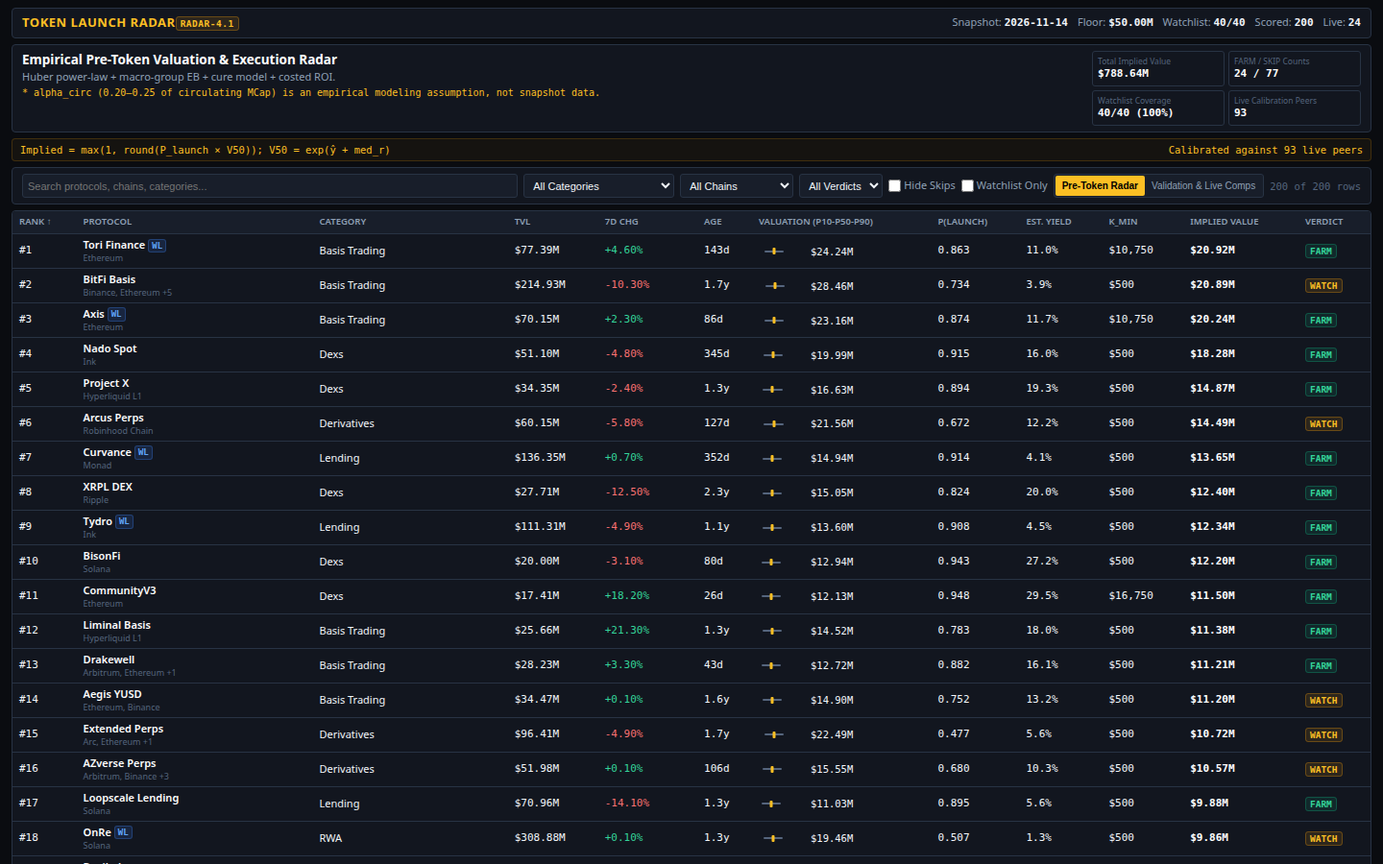
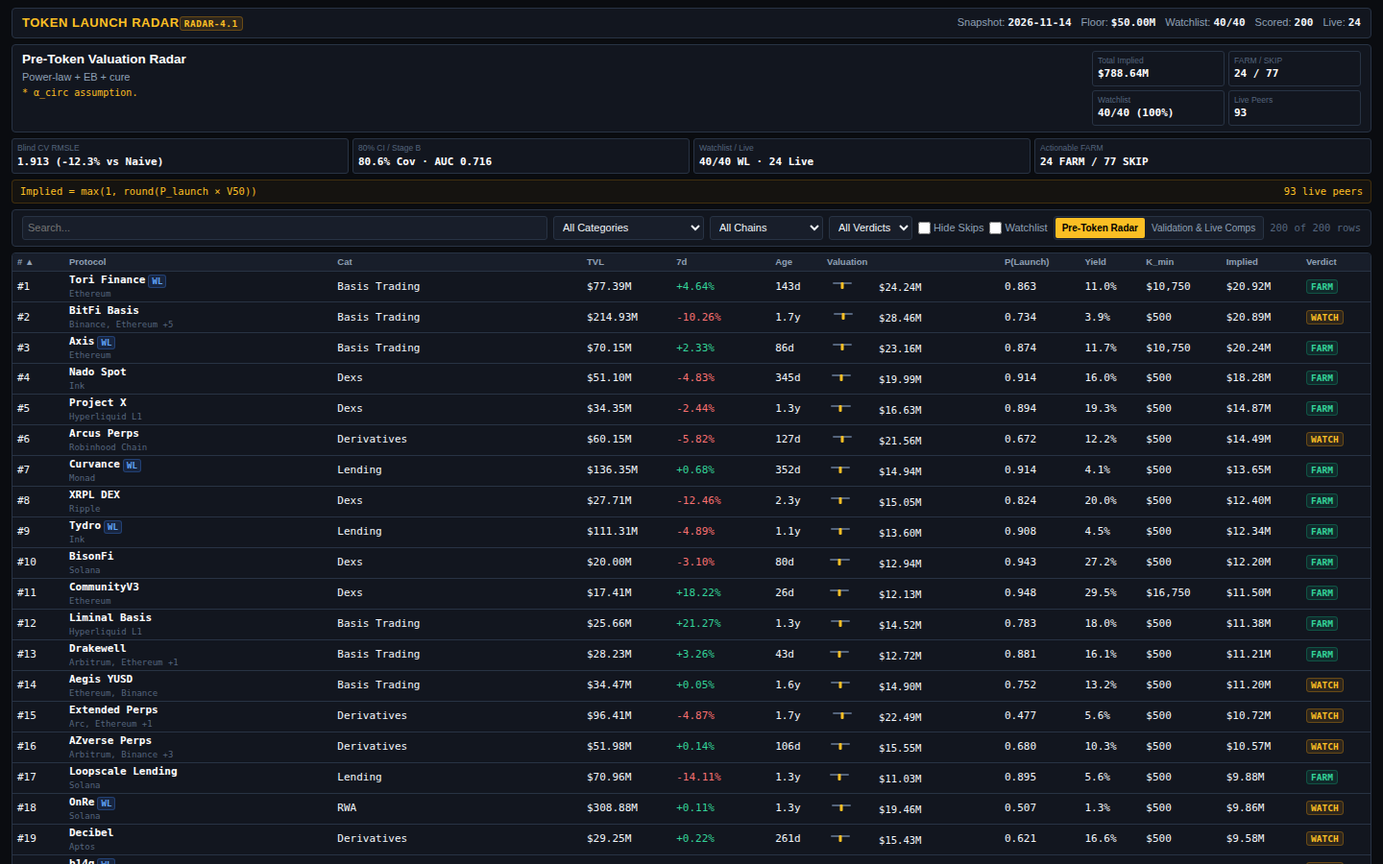
fix(radar-4.1): QC1 fixes 1, 4, 5, 7 — drawer contrast, Stage B labels, Hero KPI, val-tab reframe
- Drawer: color var(--t) + right-dock + showModal() backdrop; step text
  and comps cells legible; dialog UA border reset (border:0)
- Stage B labels corrected to model.ts (B0 Naive, B1 Cat pi_c,
  B2 +Cure F(t), B3 +D_svc Final); Net Cash EV (@$10k) with neg class;
  lastMatch = last KEPT row; all counts/labels dynamic from D
- Hero KPI strip on board: Blind CV RMSLE 1.913 (-12.3%), 80.6% Cov /
  AUC 0.716, 40/40 WL / 24 Live, 24 FARM / 77 SKIP
- Screenshot 3 reframe: tight-bounds SVG scatter (320x155) + axis
  labels/ticks, side-by-side ablation, Stage B strip + live tokens
  above the fold; pre-token filters hidden on val tab
- Restore full 'Valuation & Launch Probability' drawer header
  (was truncated to '...Launch P' by the Q2 trim pass)
- Dashboard 62,465 B (< 62,500 cap); oracle parity 0.0000;
  farm-step parity 200/200; per-step costs sum 123/123

diff --git a/dashboard/app.js b/dashboard/app.js
@@ -35,43 +35,41 @@ return t.length>600?t.slice(0,596)+"...":t.length<20?t+" Maintain position per p
 }
 window.stepText=stepText;
 function fU(n){
-if(n==null||!isFinite(n))return"n/a";
-var a=Math.abs(n);
-return a>=1e9?"$"+(n/1e9).toFixed(2)+"B":a>=1e6?"$"+(n/1e6).toFixed(2)+"M":a>=1e3?"$"+Math.round(n/1e3)+"K":"$"+Math.round(n);
+if(n==null)return"n/a";var a=Math.abs(n);
+return"$"+(a>=1e9?(n/1e9).toFixed(2)+"B":a>=1e6?(n/1e6).toFixed(2)+"M":a>=1e3?Math.round(n/1e3)+"K":Math.round(n));
 }
-function fP(n){return n==null||!isFinite(n)?"—":(n>0?"+":"")+Number(n).toFixed(2)+"%";}
-function fA(d){return d==null?"—":d>=365?(d/365).toFixed(1)+"y":Math.max(0,Math.round(d))+"d";}
-function fC(c){return!c||!c.length?"EVM":c.length<=2?c.join(", "):c.slice(0,2).join(", ")+" +"+(c.length-2);}
-function box(l,v,c){return'<div class="c-box"><div class="c-lbl">'+l+'</div><div class="c-val'+(c?' '+c:'')+'">'+v+'</div></div>';}
-function bX(cls,a){return'<div class="'+cls+'">'+a.map(function(x){return box(x[0],x[1],x[2]);}).join('')+'</div>';}
+function fP(n){return n!=null?(n>0?"+":"")+(+n).toFixed(2)+"%":"—";}
+function fA(d){return d==null?"—":d>=365?(d/365).toFixed(1)+"y":Math.round(d)+"d";}
+function fC(c){return!c||!c[0]?"EVM":c.length<=2?c.join(", "):c[0]+", "+c[1]+" +"+(c.length-2);}
+function bX(c,a){return'<div class="'+c+'">'+a.map(function(x){return'<div class="c-box"><div class="c-lbl">'+x[0]+'</div><div class="c-val '+(x[2]||'')+'">'+x[1]+'</div></div>';}).join('')+'</div>';}
 function sec(h,c){return'<div class="d-sec"><div class="s-head">'+h+'</div>'+c+'</div>';}
-function fN(n,d){return n!=null&&isFinite(n)?Number(n).toFixed(d):"—";}
-function td(v,c){return'<td class="mono'+(c?' '+c:'')+'">'+v+'</td>';}
+function fN(n,d){return n!=null?(+n).toFixed(d):"—";}
+function td(v,c){return'<td class="'+(c||'')+'">'+v+'</td>';}
 function gR(){
 var q=S.q.trim().toLowerCase(),k=S.sort,d=S.dir;
+function vl(x){return k==="growth"?x.change_7d??-9999:k==="age"?x.age_days??9999:k==="name"?x.name.toLowerCase():x[k];}
 return D.rows.filter(function(r){
 return(S.cat==="all"||r.category===S.cat)&&
-(S.ch==="all"||(r.chains&&r.chains.indexOf(S.ch)>=0))&&
+(S.ch==="all"||(r.chains&&r.chains.includes(S.ch)))&&
 (S.v==="all"||r.verdict===S.v)&&
 (!S.noSkip||r.verdict!=="skip")&&
 (!S.wl||r.is_watchlist)&&
-(!q||(r.name+" "+r.slug+" "+(r.category||"")+" "+(r.chains||[]).join(" ")).toLowerCase().indexOf(q)>=0);
+(!q||(r.name+" "+r.slug+" "+(r.category||"")+" "+(r.chains||[]).join(" ")).toLowerCase().includes(q));
 }).sort(function(a,b){
-var av=k==="growth"?a.change_7d??-9999:k==="age"?a.age_days??9999:k==="name"?a.name.toLowerCase():a[k];
-var bv=k==="growth"?b.change_7d??-9999:k==="age"?b.age_days??9999:k==="name"?b.name.toLowerCase():b[k];
+var av=vl(a),bv=vl(b);
 return av<bv?-d:av>bv?d:a.slug<b.slug?-1:1;
 });
 }
 function wH(r){
-function p(n){return Math.max(0,Math.min(100,(Math.log(Math.max(1,n))-13.1)*8.197));}
-var p10=p(r.v10_usd),p50=p(r.v50_usd),p90=p(r.v90_usd);
-return'<div class="w-wrap"><div class="w-trk"><div class="w-bar" style="left:'+p10+'%;width:'+(p90-p10)+'%"></div><div class="w-dot" style="left:'+p50+'%"></div></div><span class="w-val mono">'+fU(r.v50_usd)+'</span></div>';
+function p(n){return Math.max(0,Math.min(100,(Math.log(n)-13.1)*8.2|0));}
+var a=p(r.v10_usd),b=p(r.v50_usd),c=p(r.v90_usd);
+return'<div class="w-wrap"><div class="w-trk"><div class="w-bar" style="left:'+a+'%;width:'+(c-a)+'%"></div><div class="w-dot" style="left:'+b+'%"></div></div><span class="w-val mono">'+fU(r.v50_usd)+'</span></div>';
 }
 function rT(rows){
-var cols=[["rank","Rank"],["name","Protocol"],["category","Category"],["tvl_usd","TVL"],["growth","7d Chg"],["age","Age"],["v50_usd","Valuation (P10-90)"],["p_launch","P(Launch)"],["y_airdrop_ann","Est. Yield"],["k_min","K_min"],["implied_value_usd","Implied"],["verdict","Verdict"]];
-var ths=cols.map(function(c){return'<th><button data-sort="'+c[0]+'">'+c[1]+(S.sort===c[0]?(S.dir===1?' ↑':' ↓'):'')+'</button></th>';}).join('');
+var cols=[["rank","#"],["name","Protocol"],["category","Cat"],["tvl_usd","TVL"],["growth","7d"],["age","Age"],["v50_usd","Valuation"],["p_launch","P(Launch)"],["y_airdrop_ann","Yield"],["k_min","K_min"],["implied_value_usd","Implied"],["verdict","Verdict"]];
+var ths=cols.map(function(c){return'<th><button data-sort="'+c[0]+'">'+c[1]+(S.sort===c[0]?(S.dir===1?' ▲':' ▼'):'')+'</button></th>';}).join('');
 var trs=rows.map(function(r){
-var cls=r.change_7d==null?'':(r.change_7d>0?'pos':r.change_7d<0?'neg':'');
+var cls=r.change_7d>0?'pos':r.change_7d<0?'neg':'';
 var wl=r.is_watchlist?'<span class="badge b-wl">WL</span>':'';
 return'<tr data-slug="'+r.slug+'"'+(S.sel===r.slug?' data-selected="true"':'')+'>'+
 td('#'+r.rank)+
@@ -82,9 +80,9 @@ td(fP(r.change_7d),cls)+
 td(fA(r.age_days))+
 '<td>'+wH(r)+'</td>'+
 td(fN(r.p_launch,3))+
-td(r.y_airdrop_ann!=null?(r.y_airdrop_ann*100).toFixed(1)+'%':'—')+
-td('$'+r.k_min.toLocaleString("en-US"))+
-'<td class="mono" style="font-weight:700;color:#fff">'+fU(r.implied_value_usd)+'</td>'+
+td(r.y_airdrop_ann?fN(r.y_airdrop_ann*100,1)+'%':'—')+
+td('$'+r.k_min.toLocaleString())+
+td(fU(r.implied_value_usd))+
 '<td><span class="badge b-'+r.verdict+'">'+r.verdict+'</span></td></tr>';
 }).join('');
 return'<div class="t-wrap"><table><thead><tr>'+ths+'</tr></thead><tbody>'+trs+'</tbody></table></div>';
@@ -95,86 +93,90 @@ var r=D.rows.find(function(x){return x.slug===S.sel;});
 if(!r)return'';
 var comps=r.comps.map(function(c){
 var p=D.cp[c[0]]||{};
-return'<tr><td style="font-weight:600;color:#fff">'+(p.name||'—')+'</td><td>'+(p.category||'—')+'</td>'+
+return'<tr><td>'+(p.name||'—')+'</td><td>'+(p.category||'—')+'</td>'+
 td(fU(p.tvl_usd))+td(fU(p.mcap_usd))+
 td(fN(c[1],2)+'x')+td(fN(c[2],3))+'</tr>';
 }).join('');
-var terms=[["Intercept β₀",r.attr[0]],["ln(TVL) β₁",r.attr[1]],["ln(chains) β₅",r.attr[2]],["Macro-offset α",r.attr[3]],["Residual med_r",r.attr[4]]].map(function(t){
-var p=t[1]>=0,c=p?'pos':'neg',w=Math.min(50,Math.abs(t[1])*15);
-return'<div class="a-row"><span style="color:var(--m)">'+t[0]+'</span><div class="a-trk"><div class="a-mid"></div><div class="a-bar '+c+'" style="width:'+w+'%"></div></div><span class="mono '+c+'" style="text-align:right">'+(p?'+':'')+fN(t[1],2)+'</span></div>';
+var terms=[["β₀",r.attr[0]],["β₁ ln(TVL)",r.attr[1]],["β₅ ln(chains)",r.attr[2]],["α Macro",r.attr[3]],["Residual med_r",r.attr[4]]].map(function(t){
+var p=t[1]>=0,c=p?'pos':'neg',w=Math.min(50,Math.abs(t[1])*15|0);
+return'<div class="a-row"><span>'+t[0]+'</span><div class="a-trk"><div class="a-mid"></div><div class="a-bar '+c+'" style="width:'+w+'%"></div></div><span class="mono '+c+'" style="text-align:right">'+(p?'+':'')+fN(t[1],2)+'</span></div>';
 }).join('');
 var steps=getFarmSteps(r).map(function(s,i){
 return'<div class="f-card"><div class="f-head"><span class="f-num">STEP '+(i+1)+'</span><span style="color:var(--m)">Cost: '+s.cost+' · Time: '+s.time+'</span></div><div class="f-txt">'+s.text+'</div></div>';
 }).join('');
-var wl=r.is_watchlist?'<span class="badge b-wl">WATCHLIST</span>':'';
-return'<dialog class="drawer" open><div class="d-head"><div><div style="display:flex;align-items:center;gap:6px;margin-bottom:2px"><span class="mono" style="color:var(--x);font-size:10px">#'+r.rank+'</span><span class="badge b-'+r.verdict+'">'+r.verdict+'</span>'+wl+'</div><div class="d-title">'+r.name+'</div><div class="d-sub">'+(r.category||"DeFi")+' · '+fC(r.chains)+' · '+fA(r.age_days)+' old</div></div><button class="d-close" data-act="close">✕ Close</button></div>'+
-sec("Valuation & Launch P",bX("g4",[["P10 Floor",fU(r.v10_usd)],["P50 Base",fU(r.v50_usd)],["P90 Ceiling",fU(r.v90_usd)],["Implied",fU(r.implied_value_usd),'pos']])+'<div style="font-size:10.5px;color:var(--m);font-family:var(--fm);margin-top:4px">P(Launch) = '+fN(r.p_launch,4)+' · Implied = max(1, round(P_launch × V50))</div>')+
+var wl=r.is_watchlist?'<span class="badge b-wl">WL</span>':'';
+return'<dialog class="drawer"><div class="d-head"><div><div style="display:flex;align-items:center;gap:6px;margin-bottom:2px"><span class="mono" style="color:var(--x);font-size:10px">#'+r.rank+'</span><span class="badge b-'+r.verdict+'">'+r.verdict+'</span>'+wl+'</div><div class="d-title">'+r.name+'</div><div class="d-sub">'+(r.category||"DeFi")+' · '+fC(r.chains)+' · '+fA(r.age_days)+'</div></div><button class="d-close" data-act="close">✕ Close</button></div>'+
+sec("Valuation & Launch Probability",bX("g4",[["P10 Floor",fU(r.v10_usd)],["P50 Base",fU(r.v50_usd)],["P90 Ceiling",fU(r.v90_usd)],["Implied",fU(r.implied_value_usd),'pos']])+'<div style="font-size:10px;color:var(--m);margin-top:3px">P(Launch) = '+fN(r.p_launch,4)+'</div>')+
 sec("Valuation Attribution",terms)+
-sec("Costed Farm P&L",bX("g4",[["Chain",r.exec_chain],["Hard Cost","$"+fN(r.c_hard,2)],["Time",r.total_min+" min"],["Gross Hold",r.gross_hold!=null?(r.gross_hold*100).toFixed(2)+'%':'—'],["Est. Yield",r.y_airdrop_ann!=null?(r.y_airdrop_ann*100).toFixed(1)+'%':'—'],["Net Cash EV","$"+fN(r.net_cash_ev_10k,2),'pos'],["K_min","$"+r.k_min.toLocaleString("en-US")],["α_circ",r.alpha_circ*100+'%']]))+
+sec("Costed Farm P&L",bX("g4",[["Chain",r.exec_chain],["Hard Cost","$"+fN(r.c_hard,2)],["Time",r.total_min+"m"],["Gross Hold",r.gross_hold?fN(r.gross_hold*100,2)+'%':'—'],["Est. Yield",r.y_airdrop_ann?fN(r.y_airdrop_ann*100,1)+'%':'—'],["Net Cash EV (@$10k)",(r.net_cash_ev_10k<0?"-$":"$")+Math.abs(r.net_cash_ev_10k).toFixed(2),r.net_cash_ev_10k>=0?"pos":"neg"],["K_min","$"+r.k_min.toLocaleString()],["α_circ",r.alpha_circ*100+'%']]))+
 sec("3 Nearest Comps",'<table><thead><tr><th>Peer</th><th>Cat</th><th>TVL</th><th>MCap</th><th>MCap/TVL</th><th>Dist</th></tr></thead><tbody>'+comps+'</tbody></table>')+
 sec((r.verdict==="skip"?"Disqualification Log":"Farm Playbook"),'<div class="f-tl">'+steps+'</div>')+'</dialog>';
 }
 function rV(){
 var v=D.validation,pts=v.oof_scatter||[];
-function sx(x){return 24+(x-12)*19.428;}
-function sy(y){return 196-(y-12)*12.285;}
-var circs=pts.map(function(p){return'<circle cx="'+sx(p.actual_ln)+'" cy="'+sy(p.pred_ln)+'" r="2.5" fill="#f59e0b" fill-opacity="0.6"/>';}).join('');
-var diag='<line x1="'+sx(12)+'" y1="'+sy(12)+'" x2="'+sx(26)+'" y2="'+sy(26)+'" stroke="#55657d" stroke-dasharray="2,2"/>';
-var axes='<line x1="24" y1="196" x2="296" y2="196" stroke="#283344"/><line x1="24" y1="24" x2="24" y2="196" stroke="#283344"/>';
-var svgStr='<svg class="sc-svg" viewBox="0 0 320 220">'+diag+axes+circs+'</svg>';
+var lo=99,hi=0;pts.forEach(function(p){lo=Math.min(lo,p.actual_ln,p.pred_ln);hi=Math.max(hi,p.actual_ln,p.pred_ln);});lo-=0.5;hi+=0.5;
+var mid=(lo+hi)/2;
+function sx(x){return 30+(x-lo)/(hi-lo)*278|0;}
+function sy(y){return 128-(y-lo)/(hi-lo)*118|0;}
+var tk='<g font-size="7.5" fill="#55657d">';
+[lo,mid,hi].forEach(function(x){var s=x.toFixed(1);tk+='<text x="'+sx(x)+'" y="139" text-anchor="middle">'+s+'</text><text x="26" y="'+(sy(x)+3)+'" text-anchor="end">'+s+'</text>';});
+tk+='</g><g font-size="8" fill="#8fa0b5" text-anchor="middle"><text x="169" y="150">Actual ln(MCap)</text><text x="-69" y="9" transform="rotate(-90)">OOF Pred ln(MCap)</text></g>';
+var circs=pts.map(function(p){return'<circle cx="'+sx(p.actual_ln)+'" cy="'+sy(p.pred_ln)+'" r="2" fill="#f59e0b99"/>';}).join('');
+var diag='<line x1="'+sx(lo)+'" y1="'+sy(lo)+'" x2="'+sx(hi)+'" y2="'+sy(hi)+'" stroke="#55657d" stroke-dasharray="2,2"/>';
+var axes='<path d="M30 10v118h278" stroke="#283344" fill="none"/>';
+var svgStr='<svg class="sc-svg" viewBox="0 0 320 155">'+diag+axes+tk+circs+'</svg>';
 function tbl(t){
-return'<table><thead><tr><th>Model</th><th>RMSLE</th><th>MAE_log</th><th>Spearman</th><th>NDCG@20</th><th>ΔRMSLE</th><th>Kept</th></tr></thead><tbody>'+
+return'<table><thead><tr><th>Model</th><th>RMSLE</th><th>MAE</th><th>Spearman</th><th>ΔRMSLE</th><th>Kept</th></tr></thead><tbody>'+
 (t||[]).map(function(r){
-return'<tr><td class="mono" style="font-weight:600;color:#fff">'+r.model+'</td>'+
-[r.rmsle,r.mae_log,r.spearman_mean_fold,r.ndcg20,r.delta].map(function(x){return td(fN(x,4));}).join('')+
-'<td class="mono" style="color:'+(r.kept?'var(--gt)':'var(--m)')+'">'+(r.kept?'YES':'—')+'</td></tr>';
+return'<tr>'+td(r.model)+
+[r.rmsle,r.mae_log,r.spearman_mean_fold,r.delta].map(function(x){return td(fN(x,4));}).join('')+
+td(r.kept?'YES':'—',r.kept?'pos':'')+'</tr>';
 }).join('')+'</tbody></table>';
 }
 var liveRows=D.live.map(function(l){
-var r=l.tvl_usd>0?(l.mcap_usd/l.tvl_usd).toFixed(2)+'x':'—';
-var cls=l.change_7d>0?'pos':l.change_7d<0?'neg':'';
-return'<tr><td style="font-weight:600;color:#fff">'+l.name+'</td><td>'+(l.category||"DeFi")+'</td><td>'+fC(l.chains)+'</td>'+td(fU(l.tvl_usd))+td(fU(l.mcap_usd))+td(r)+td(fP(l.change_7d),cls)+'</tr>';
+var r=l.tvl_usd>0?(l.mcap_usd/l.tvl_usd).toFixed(2)+'x':'—',c=l.change_7d>0?'pos':l.change_7d<0?'neg':'';
+return'<tr><td>'+l.name+'</td><td>'+(l.category||"DeFi")+'</td><td>'+fC(l.chains)+'</td>'+td(fU(l.tvl_usd))+td(fU(l.mcap_usd))+td(r)+td(fP(l.change_7d),c)+'</tr>';
 }).join('');
-var lastMatch=v.stage_a.match.table[v.stage_a.match.table.length-1]||{};
-var ffBeta=v.stage_a.final_fit.beta||[],ffAlpha=v.stage_a.final_fit.alpha||{};
+var a=v.stage_a,ff=a.final_fit,al=ff.alpha||{},fb=ff.beta||[],lm=a.match.table.filter(function(r){return r.kept;}).pop()||{};
+var freeTerm=(a.match.kept_free||[]).filter(function(x){return x!=="x1";}).join(",")||"—";
+var sb=v.stage_b,b=sb.cv;function ab(x){return fN(x.auc,3)+"/"+fN(x.brier,3);}
 return'<div class="v-pan"><div class="g2">'+
-sec("OOF CV Scatter",'<div class="sc-box">'+svgStr+'</div><div style="text-align:center;font-size:10.5px;color:var(--m);margin-top:4px;font-family:var(--fm)">Final fit RMSLE: '+fN(lastMatch.rmsle,4)+' · Coverage: '+fN(v.stage_a.match.conformal.coverage_pct,1)+'%</div>')+
-sec("Fit Parameters",bX("g2",[["Huber λ/m_shr",v.stage_a.final_fit.lambda+" / "+v.stage_a.final_fit.m_shr],["β₀",fN(ffBeta[0],4)],["β₁ ln(TVL)",fN(ffBeta[1],4)],["β₅ (x5)",fN(ffBeta[2],4)],["Trading/Credit α",fN(ffAlpha.Trading,3)+" / "+fN(ffAlpha.Credit,3)],["Vaults/Infra α",fN(ffAlpha.Vaults,3)+" / "+fN(ffAlpha.Infra,3)],["Conformal med_r",fN(v.stage_a.match.conformal.med_r,4)],["LOO Coverage",fN(v.stage_a.match.conformal.coverage_pct,1)+'%']]))+'</div>'+
-sec("Ablation: L_match",tbl(v.stage_a.match.table))+
-sec("Ablation: L_all",tbl(v.stage_a.all.table))+
-sec("Stage B Proof",bX("g4",[["B0 AUC/Brier",fN(v.stage_b.cv.b0.auc,3)+"/"+fN(v.stage_b.cv.b0.brier,3)],["B1 AUC/Brier",fN(v.stage_b.cv.b1.auc,3)+"/"+fN(v.stage_b.cv.b1.brier,3)],["B2 AUC/Brier",fN(v.stage_b.cv.b2.auc,3)+"/"+fN(v.stage_b.cv.b2.brier,3)],["Final AUC/Brier/BSS",fN(v.stage_b.cv.final.auc,3)+"/"+fN(v.stage_b.cv.final.brier,3)+"/"+fN(v.stage_b.cv.final.bss,3)],["Cure",v.stage_b.cure.w0+"/"+v.stage_b.cure.tau+"d/m="+v.stage_b.cure.m],["D_service",fN(v.stage_b.d_service,4)],["Target/p0",v.stage_b.target+" ("+fN(v.stage_b.p0,3)+")"],["P_floor/Q75",fN(v.verdicts.p_floor,3)+" / "+fU(v.verdicts.q75_implied)]]))+
-sec("24 Isolated Live Tokens (Peer Reference)",'<table><thead><tr><th>Protocol</th><th>Cat</th><th>Chains</th><th>TVL</th><th>MCap</th><th>MCap/TVL</th><th>7d Chg</th></tr></thead><tbody>'+liveRows+'</tbody></table>')+'</div>';
+sec("OOF CV Scatter (n="+a.match.n+")",'<div class="sc-box">'+svgStr+'</div><div style="text-align:center;font-size:10px;color:var(--m);margin-top:2px">RMSLE: '+fN(lm.rmsle,4)+' · Cov: '+fN(a.match.conformal.coverage_pct,1)+'%</div>')+
+sec("Fit Parameters",bX("g2",[["Huber λ/m",ff.lambda+"/"+ff.m_shr],["β₀",fN(fb[0],4)],["β₁ ln(TVL)",fN(fb[1],4)],["Beta Free ("+freeTerm+")",fN(fb[2],4)],["Trade/Credit α",fN(al.Trading,3)+"/"+fN(al.Credit,3)],["Vault/Infra α",fN(al.Vaults,3)+"/"+fN(al.Infra,3)],["med_r",fN(a.match.conformal.med_r,4)],["Coverage",fN(a.match.conformal.coverage_pct,1)+'%']]))+'</div>'+
+'<div class="g2">'+
+sec("Ablation: L_match (n="+a.match.n+")",tbl(a.match.table))+
+sec("Ablation: L_all (n="+a.all.n+")",tbl(a.all.table))+
+'</div>'+
+sec("Stage B Proof",bX("g4",[["B0 Naive",ab(b.b0)],["B1 Cat π_c",ab(b.b1)],["B2 +Cure F(t)",ab(b.b2)],["B3 +D_svc (Final)",ab(b.final)+"/"+fN(b.final.bss,3)],["Cure",sb.cure.w0+"/"+sb.cure.tau+"d/m="+sb.cure.m],["D_service",fN(sb.d_service,4)],["Target/p0",sb.target+" ("+fN(sb.p0,3)+")"],["P_floor/Q75",fN(v.verdicts.p_floor,3)+" / "+fU(v.verdicts.q75_implied)]]))+
+sec(D.live.length+" Isolated Live Tokens (Peer Reference · Not Ranked on Pre-Token Board)",'<table><thead><tr><th>Protocol</th><th>Cat</th><th>Chains</th><th>TVL</th><th>MCap</th><th>MCap/TVL</th><th>7d</th></tr></thead><tbody>'+liveRows+'</tbody></table>')+'</div>';
 }
 function uX(){
-var sorted=gR();
-var cnt=document.querySelector(".cnt");
+var sorted=gR(),cnt=document.querySelector(".cnt"),c=document.querySelector(".ctrls"),dyn=document.getElementById("dyn");
 if(cnt)cnt.textContent=sorted.length+" of "+D.rows.length+" rows";
-var dyn=document.getElementById("dyn");
+if(c)c.classList.toggle("v-mode",S.tab==="val");
 if(!dyn)return;
 dyn.innerHTML=S.tab==="radar"?(rT(sorted)+(S.sel?rD():'')):rV();
+if(S.sel){var d=document.querySelector('dialog.drawer');if(d&&!d.open){try{d.showModal();}catch(e){d.setAttribute('open','');}}}
 }
 function init(){
 var cats=[],chs=[],farmCount=0,skipCount=0,wlCount=0,totImplied=0;
 D.rows.forEach(function(r){
-if(r.category&&cats.indexOf(r.category)<0)cats.push(r.category);
-if(r.chains)r.chains.forEach(function(c){if(chs.indexOf(c)<0)chs.push(c);});
-if(r.verdict==="farm")farmCount++;else if(r.verdict==="skip")skipCount++;
-if(r.is_watchlist)wlCount++;
+r.category&&!cats.includes(r.category)&&cats.push(r.category);
+(r.chains||[]).forEach(function(c){!chs.includes(c)&&chs.push(c);});
+farmCount+=r.verdict==="farm";
+skipCount+=r.verdict==="skip";
+wlCount+=r.is_watchlist?1:0;
 totImplied+=r.implied_value_usd;
 });
 cats.sort();chs.sort();
-var cpCount=D.cp.length;
-var mkOpt=function(a){return a.map(function(c){return'<option value="'+c+'">'+c+'</option>';}).join('');};
+var mkOpt=function(a){return a.map(function(c){return'<option>'+c+'</option>';}).join('');};
+var v=D.validation,mt=v.stage_a.match.table,lm=mt.filter(function(r){return r.kept;}).pop()||mt[mt.length-1],d=((lm.rmsle-mt[0].rmsle)/mt[0].rmsle*100).toFixed(1);
 var app=document.getElementById("app");
-app.innerHTML='<div class="shell"><div class="top-bar"><div class="brand"><span>Token Launch Radar</span><span class="badge b-m">'+D.model_version+'</span></div><div class="stats-strip"><span>Snapshot: <b>'+D.as_of+'</b></span><span>Floor: <b>'+fU(D.floor_usd)+'</b></span><span>Watchlist: <b>'+wlCount+'/'+wlCount+'</b></span><span>Scored: <b>'+D.rows.length+'</b></span><span>Live: <b>'+D.live.length+'</b></span></div></div><section class="hero"><div><h1>Pre-Token Valuation Radar</h1><p>Power-law + EB + cure + costed ROI.</p><div class="hero-note">* alpha_circ (0.20–0.25) empirical assumption.</div></div>'+bX("h-grid",[["Total Implied",fU(totImplied)],["FARM / SKIP",farmCount+" / "+skipCount],["Watchlist","40/40 (100%)"],["Live Peers",String(cpCount)]])+'</section><div class="f-strip"><span>Implied = max(1, round(P_launch × V50)); V50 = exp(ŷ + med_r)</span><span>'+cpCount+' live peers</span></div><div class="ctrls"><input class="inp" id="qInp" placeholder="Search protocols, chains..." value="'+S.q+'"><select class="sel" id="catSel"><option value="all">All Categories</option>'+mkOpt(cats)+'</select><select class="sel" id="chSel"><option value="all">All Chains</option>'+mkOpt(chs)+'</select><select class="sel" id="vSel"><option value="all">All Verdicts</option><option value="farm">FARM</option><option value="watch">WATCH</option><option value="skip">SKIP</option></select><label class="chk"><input type="checkbox" id="nsChk">Hide Skips</label><label class="chk"><input type="checkbox" id="wlChk">Watchlist Only</label><div class="t-grp"><button class="t-btn" data-tab="radar" aria-selected="true">Pre-Token Radar</button><button class="t-btn" data-tab="val" aria-selected="false">Validation & Live Comps</button></div><span class="cnt">'+D.rows.length+' of '+D.rows.length+' rows</span></div><div id="dyn"></div></div>';
+app.innerHTML='<div class="shell"><div class="top-bar"><div class="brand"><span>Token Launch Radar</span><span class="badge b-m">'+D.model_version+'</span></div><div class="stats-strip"><span>Snapshot: <b>'+D.as_of+'</b></span><span>Floor: <b>'+fU(D.floor_usd)+'</b></span><span>Watchlist: <b>'+wlCount+'/'+D.watchlist_size+'</b></span><span>Scored: <b>'+D.rows.length+'</b></span><span>Live: <b>'+D.live.length+'</b></span></div></div><section class="hero"><div><h1>Pre-Token Valuation Radar</h1><p>Power-law + EB + cure</p><div class="hero-note">* α_circ assumption.</div></div>'+bX("h-grid",[["Total Implied",fU(totImplied)],["FARM / SKIP",farmCount+" / "+skipCount],["Watchlist",wlCount+"/"+D.watchlist_size+" ("+Math.round(wlCount/D.watchlist_size*100)+"%)"],["Live Peers",D.cp.length]])+'</section>'+bX("g4 hero-kpi",[["Blind CV RMSLE",fN(lm.rmsle,3)+" ("+(d>0?"+":"")+d+"% vs Naive)"],["80% CI / Stage B",fN(v.stage_a.match.conformal.coverage_pct,1)+"% Cov · AUC "+fN(v.stage_b.cv.final.auc,3)],["Watchlist / Live",wlCount+"/"+D.watchlist_size+" WL · "+D.live.length+" Live"],["Actionable FARM",farmCount+" FARM / "+skipCount+" SKIP"]])+'<div class="f-strip"><span>Implied = max(1, round(P_launch × V50))</span><span>'+D.cp.length+' live peers</span></div><div class="ctrls"><input class="inp" id="qInp" placeholder="Search..." value="'+S.q+'"><select class="sel" id="catSel"><option value="all">All Categories</option>'+mkOpt(cats)+'</select><select class="sel" id="chSel"><option value="all">All Chains</option>'+mkOpt(chs)+'</select><select class="sel" id="vSel"><option value="all">All Verdicts</option><option value="farm">FARM</option><option value="watch">WATCH</option><option value="skip">SKIP</option></select><label class="chk"><input type="checkbox" id="nsChk">Hide Skips</label><label class="chk"><input type="checkbox" id="wlChk">Watchlist</label><div class="t-grp"><button class="t-btn" data-tab="radar" aria-selected="true">Pre-Token Radar</button><button class="t-btn" data-tab="val" aria-selected="false">Validation & Live Comps</button></div><span class="cnt">'+D.rows.length+' of '+D.rows.length+' rows</span></div><div id="dyn"></div></div>';
 app.addEventListener("input",function(e){if(e.target.id==="qInp"){S.q=e.target.value;uX();}});
 app.addEventListener("change",function(e){
-var id=e.target.id;
-if(id==="catSel")S.cat=e.target.value;
-else if(id==="chSel")S.ch=e.target.value;
-else if(id==="vSel")S.v=e.target.value;
-else if(id==="nsChk")S.noSkip=e.target.checked;
-else if(id==="wlChk")S.wl=e.target.checked;
+var t=e.target,i=t.id,v=t.value,c=t.checked;
+if(i==="catSel")S.cat=v;else if(i==="chSel")S.ch=v;else if(i==="vSel")S.v=v;else if(i==="nsChk")S.noSkip=c;else if(i==="wlChk")S.wl=c;
 uX();
 });
 app.addEventListener("click",function(e){
@@ -182,11 +184,11 @@ var t=e.target,btn=t.closest("button");
 if(btn){
 var d=btn.dataset;
 if(d.sort){if(S.sort===d.sort)S.dir=-S.dir;else{S.sort=d.sort;S.dir=d.sort==="name"||d.sort==="rank"?1:-1;}uX();return;}
-if(d.tab){S.tab=d.tab;S.sel=null;app.querySelectorAll(".t-btn").forEach(function(b){b.setAttribute("aria-selected",b.dataset.tab===S.tab?"true":"false");});uX();return;}
+if(d.tab){S.tab=d.tab;S.sel=null;app.querySelectorAll(".t-btn").forEach(function(b){b.setAttribute("aria-selected",b.dataset.tab===S.tab);});uX();return;}
 if(d.act==="close"){S.sel=null;uX();return;}
 }
 var tr=t.closest("tbody tr[data-slug]");
-if(tr&&S.tab==="radar"){var s=tr.getAttribute("data-slug");S.sel=S.sel===s?null:s;uX();return;}
+if(tr&&S.tab==="radar"){var s=tr.dataset.slug;S.sel=S.sel===s?null:s;uX();return;}
 if(t.classList.contains("drawer")){S.sel=null;uX();}
 });
 window.addEventListener("keydown",function(e){if(e.key==="Escape"&&S.sel){S.sel=null;uX();}});

diff --git a/dashboard/app.css b/dashboard/app.css
@@ -1,1 +1,1 @@
-:root{--b:#0a0c10;--p:#12161f;--s:#181e2a;--h:#222a3a;--d:#283344;--t:#f1f5f9;--m:#8fa0b5;--x:#55657d;--at:#fbbf24;--gt:#34d399;--rt:#f87171;--fm:ui-monospace,monospace}*{box-sizing:border-box;margin:0;padding:0}body{background:var(--b);color:var(--t);font:12px/1.35 system-ui,sans-serif}.mono,.badge,.stats-strip b,.hero-note,.f-strip,.cnt,.w-val,.c-val,.f-head{font-family:var(--fm)}.mono{font-variant-numeric:tabular-nums}.shell{max-width:1440px;margin:0 auto;padding:8px 12px 32px}.top-bar,.ctrls,.hero,.t-wrap,.drawer,.c-box,.f-card,.sc-svg,.a-trk{background:var(--p)}.inp,.sel,.t-grp,.d-close,.d-sec,thead{background:var(--s)}.top-bar,.ctrls,.hero,.t-wrap,.inp,.sel,.t-grp,.d-close,.d-sec,.c-box,.f-card,.sc-svg{border:1px solid var(--d)}.top-bar,.ctrls,.hero,.t-wrap,.f-strip{border-radius:4px;margin-bottom:6px}.badge,.inp,.sel,.t-grp,.d-close,.d-sec,.c-box,.f-card,.sc-svg,.skip-link:focus{border-radius:3px}.p-cell,.top-bar,.ctrls,.stats-strip,.f-strip,.chk,.w-wrap,.w-trk,.drawer,.d-head,.a-trk,.f-tl,.v-pan,.f-head,.sc-box{display:flex}.hero,.h-grid,.g2,.g4,.a-row{display:grid}.top-bar,.ctrls{padding:6px 10px;flex-wrap:wrap;align-items:center;gap:6px}.top-bar{justify-content:space-between;gap:8px}.brand{font-weight:700;font-size:13px;letter-spacing:.04em;text-transform:uppercase;color:var(--at)}.badge{padding:1px 4px;font-size:9.5px;font-weight:600;text-transform:uppercase}.b-m,.b-watch,.b-farm,.b-skip,.b-wl{border:1px solid}.b-m,.b-watch{background:#f59e0b1f;color:var(--at);border-color:#f59e0b4d}.b-farm{background:#10b9811f;color:var(--gt);border-color:#10b9814d}.b-skip{background:#ef44441f;color:var(--rt);border-color:#ef44444d}.b-wl{background:#3b82f626;color:#60a5fa;border-color:#3b82f64d;font-size:9px;padding:0 3px;margin-left:3px}.stats-strip{flex-wrap:wrap;gap:10px;font-size:11px;color:var(--m)}.stats-strip b{color:var(--t)}.hero{padding:6px 10px;grid-template-columns:1fr 280px;gap:8px}.hero h1{font-size:13.5px;color:#fff;margin-bottom:2px}.hero p{color:var(--m);font-size:11px}.hero-note{color:var(--at);font-size:10px;margin-top:2px}.h-grid,.g2{grid-template-columns:1fr 1fr;gap:4px}.g4{grid-template-columns:repeat(4,1fr);gap:4px}.f-strip{justify-content:space-between;padding:4px 8px;background:#f59e0b0d;border:1px solid #f59e0b33;font-size:10.5px;color:var(--at);overflow-x:auto;white-space:nowrap}.inp,.sel{height:25px;padding:0 5px;color:var(--t);font-size:11px;outline:none}.inp{min-width:130px;flex:1}.t-grp{padding:1px}.t-btn{height:21px;padding:0 7px;border:0;background:transparent;color:var(--m);border-radius:2px;font-size:10px;font-weight:500;cursor:pointer}.t-btn[aria-selected="true"]{background:var(--at);color:#000;font-weight:700}.chk{align-items:center;gap:3px;font-size:11px;color:var(--m);cursor:pointer}.cnt{margin-left:auto;font-size:10.5px;color:var(--x)}.t-wrap{overflow-x:auto;margin-bottom:8px}table{width:100%;border-collapse:collapse;font-size:11px;text-align:left}thead{border-bottom:1px solid var(--d);position:sticky;top:0;z-index:2}th{padding:5px 7px;font-weight:600;font-size:9.5px;text-transform:uppercase;color:var(--m);white-space:nowrap}th button{border:0;background:transparent;color:inherit;font:inherit;text-transform:inherit;cursor:pointer}th button:hover{color:#fff}tbody tr{border-bottom:1px solid var(--d);cursor:pointer}tbody tr:hover{background:var(--h)}tbody tr[data-selected="true"]{background:#f59e0b14;outline:1px solid #f59e0b4d}td{padding:4px 7px;vertical-align:middle;white-space:nowrap}.p-cell{flex-direction:column}.p-name{font-weight:600;color:#fff;display:inline-flex;align-items:center}.p-sub{font-size:9px;color:var(--x)}.w-wrap{align-items:center;gap:4px;min-width:115px}.w-trk{position:relative;width:50px;height:9px;align-items:center}.w-bar{position:absolute;height:2px;background:var(--x);border-radius:1px}.w-dot{position:absolute;width:3px;height:7px;background:var(--at);border-radius:1px;transform:translateX(-50%)}.w-val{font-size:10.5px;min-width:48px}.pos{color:var(--gt)}.neg{color:var(--rt)}.drawer{position:fixed;top:0;right:0;bottom:0;width:min(560px,96vw);border-left:1px solid var(--d);box-shadow:-6px 0 20px #000c;padding:12px;overflow-y:auto;z-index:50;flex-direction:column;gap:8px}.drawer::backdrop{background:#0009;backdrop-filter:blur(2px)}.d-head{justify-content:space-between;align-items:flex-start;border-bottom:1px solid var(--d);padding-bottom:6px}.d-close{color:var(--m);padding:2px 5px;font-size:9.5px;cursor:pointer}.d-title{font-size:14px;font-weight:700;color:#fff}.d-sub{font-size:10px;color:var(--x);margin-top:1px}.s-head{font-size:9.5px;font-weight:700;text-transform:uppercase;color:var(--at);margin-bottom:4px}.d-sec{padding:6px 8px}.c-box{padding:4px 5px}.c-lbl{font-size:8.5px;color:var(--x);margin-bottom:1px}.c-val{font-size:11px;font-weight:700;color:#fff}.a-row{grid-template-columns:105px 1fr 45px;align-items:center;gap:5px;font-size:10px;margin-bottom:2px}.a-trk{position:relative;height:9px;border-radius:2px;align-items:center}.a-mid{position:absolute;left:50%;width:1px;height:100%;background:var(--d)}.a-bar{position:absolute;height:5px;border-radius:1px}.a-bar.pos{background:var(--gt);left:50%}.a-bar.neg{background:var(--rt);right:50%}.f-tl,.v-pan{flex-direction:column;gap:4px}.v-pan{gap:8px}.f-card{padding:5px 7px}.f-head{justify-content:space-between;font-size:9px;margin-bottom:1px}.f-num{color:var(--at);font-weight:700}.f-txt{font-size:10.5px;line-height:1.3}.sc-box{flex-direction:column;align-items:center}.sc-svg{width:100%;max-width:320px;height:auto}.skip-link:not(:focus){position:absolute;left:-9999px;width:1px;height:1px;overflow:hidden}.skip-link:focus{position:absolute;top:4px;left:4px;background:var(--at);color:#000;padding:4px 8px;font-weight:700;z-index:100;text-decoration:none}@media(max-width:850px){.hero{grid-template-columns:1fr}.ctrls{flex-direction:column;align-items:stretch}.drawer{width:100vw}.g4{grid-template-columns:1fr 1fr}}
+:root{--b:#0a0c10;--p:#12161f;--s:#181e2a;--h:#222a3a;--d:#283344;--t:#f1f5f9;--m:#8fa0b5;--x:#55657d;--at:#fbbf24;--gt:#34d399;--rt:#f87171;--fm:monospace}*{box-sizing:border-box;margin:0;padding:0}body{background:var(--b);color:var(--t);font:12px/1.35 sans-serif}td,.mono,.badge,.stats-strip b,.hero-note,.f-strip,.cnt,.w-val,.c-val,.f-head{font-family:var(--fm)}.shell{max-width:1440px;margin:0 auto;padding:8px 12px 32px}.top-bar,.ctrls,.hero,.t-wrap,.drawer,.c-box,.f-card,.sc-svg,.a-trk{background:var(--p)}.inp,.sel,.t-grp,.d-close,.d-sec,thead{background:var(--s)}.top-bar,.ctrls,.hero,.t-wrap,.inp,.sel,.t-grp,.d-close,.d-sec,.c-box,.f-card,.sc-svg{border:1px solid var(--d)}.top-bar,.ctrls,.hero,.hero-kpi,.t-wrap,.f-strip{border-radius:4px;margin-bottom:6px}.badge,.inp,.sel,.t-grp,.d-close,.d-sec,.c-box,.f-card,.sc-svg,.skip-link:focus{border-radius:3px}.p-cell,.top-bar,.ctrls,.stats-strip,.f-strip,.chk,.w-wrap,.w-trk,.drawer,.d-head,.a-trk,.f-tl,.v-pan,.f-head,.sc-box{display:flex}.hero,.h-grid,.g2,.g4,.a-row{display:grid}.top-bar,.ctrls{padding:6px 10px;flex-wrap:wrap;align-items:center;gap:6px}.top-bar{justify-content:space-between;gap:8px}.brand{font-weight:700;font-size:13px;letter-spacing:.04em;text-transform:uppercase;color:var(--at)}.badge{padding:1px 4px;font-size:9.5px;font-weight:600;text-transform:uppercase}.b-m,.b-watch,.b-farm,.b-skip,.b-wl{border:1px solid}.b-m,.b-watch{background:#f59e0b1f;color:var(--at);border-color:#f59e0b4d}.b-farm{background:#10b9811f;color:var(--gt);border-color:#10b9814d}.b-skip{background:#ef44441f;color:var(--rt);border-color:#ef44444d}.b-wl{background:#3b82f626;color:#60a5fa;border-color:#3b82f64d;font-size:9px;padding:0 3px;margin-left:3px}.stats-strip{flex-wrap:wrap;gap:10px;font-size:11px;color:var(--m)}.stats-strip b,.drawer td,.drawer .f-txt,tbody td:first-child{color:var(--t)}.hero{padding:6px 10px;grid-template-columns:1fr 280px;gap:8px}.hero h1{font-size:13.5px;color:#fff;margin-bottom:2px}.hero p{color:var(--m);font-size:11px}.hero-note{color:var(--at);font-size:10px;margin-top:2px}.h-grid,.g2{grid-template-columns:1fr 1fr;gap:4px}.g4{grid-template-columns:repeat(4,1fr);gap:4px}.f-strip{justify-content:space-between;padding:4px 8px;background:#f59e0b0d;border:1px solid #f59e0b33;font-size:10.5px;color:var(--at);overflow-x:auto;white-space:nowrap}.inp,.sel{height:25px;padding:0 5px;color:var(--t);font-size:11px;outline:0}.inp{min-width:130px;flex:1}.t-grp{padding:1px}.t-btn{height:21px;padding:0 7px;border:0;background:none;color:var(--m);border-radius:2px;font-size:10px;font-weight:500;cursor:pointer}.t-btn[aria-selected="true"]{background:var(--at);color:#000;font-weight:700}.chk{align-items:center;gap:3px;font-size:11px;color:var(--m);cursor:pointer}.cnt{margin-left:auto;font-size:10.5px;color:var(--x)}.t-wrap{overflow-x:auto;margin-bottom:8px}table{width:100%;border-collapse:collapse;font-size:11px;text-align:left}thead{border-bottom:1px solid var(--d);position:sticky;top:0;z-index:2}th{padding:3px 5px;font-weight:600;font-size:9.5px;text-transform:uppercase;color:var(--m);white-space:nowrap}th button{border:0;background:none;color:inherit;font:inherit;cursor:pointer}th button:hover{color:#fff}tbody tr{border-bottom:1px solid var(--d);cursor:pointer}tbody tr:hover{background:var(--h)}tbody tr[data-selected]{background:#f59e0b14;outline:1px solid #f59e0b4d}td{padding:2px 5px;vertical-align:middle;white-space:nowrap}.p-cell{flex-direction:column}.p-name{font-weight:600;color:#fff;display:inline-flex;align-items:center}.p-sub{font-size:9px;color:var(--x)}.w-wrap{align-items:center;gap:4px;min-width:115px}.w-trk{position:relative;width:50px;height:9px}.w-bar{position:absolute;height:2px;background:var(--x);border-radius:1px}.w-dot{position:absolute;width:3px;height:7px;background:var(--at);border-radius:1px;transform:translateX(-50%)}.w-val{font-size:10.5px;min-width:48px}.pos{color:var(--gt)}.neg{color:var(--rt)}.drawer{position:fixed;top:0;right:0;bottom:0;width:min(560px,96vw);border:0;border-left:1px solid var(--d);box-shadow:-6px 0 20px #000c;padding:12px;overflow-y:auto;z-index:50;flex-direction:column;gap:8px;color:var(--t);left:auto;margin:0 0 0 auto}.drawer::backdrop{background:#0009}.d-head{justify-content:space-between;align-items:flex-start;border-bottom:1px solid var(--d);padding-bottom:6px}.d-close{color:var(--m);padding:2px 5px;font-size:9.5px;cursor:pointer}.d-title{font-size:14px;font-weight:700;color:#fff}.d-sub{font-size:10px;color:var(--x);margin-top:1px}.s-head{font-size:9.5px;font-weight:700;text-transform:uppercase;color:var(--at);margin-bottom:4px}.d-sec{padding:4px 6px}.c-box{padding:4px 5px}.c-lbl{font-size:8.5px;color:var(--x);margin-bottom:1px}.c-val{font-size:11px;font-weight:700;color:#fff}.a-row{grid-template-columns:105px 1fr 45px;align-items:center;gap:5px;font-size:10px;margin-bottom:2px}.a-trk{position:relative;height:9px;border-radius:2px}.a-mid{position:absolute;left:50%;width:1px;height:100%;background:var(--d)}.a-bar{position:absolute;height:5px;border-radius:1px}.a-bar.pos{background:var(--gt);left:50%}.a-bar.neg{background:var(--rt);right:50%}.f-tl,.v-pan{flex-direction:column;gap:4px}.f-card{padding:5px 7px}.f-head{justify-content:space-between;font-size:9px;margin-bottom:1px}.f-num{color:var(--at);font-weight:700}.f-txt{font-size:10.5px;line-height:1.3}.sc-box{flex-direction:column;align-items:center}.sc-svg{width:100%;max-width:320px;height:auto}.skip-link:not(:focus){position:absolute;left:-9999px;width:1px;height:1px;overflow:hidden}.skip-link:focus{position:absolute;top:4px;left:4px;background:var(--at);color:#000;padding:4px 8px;font-weight:700;z-index:100;text-decoration:none}.v-mode .inp,.v-mode .sel,.v-mode .chk{display:none}@media(max-width:850px){.hero{grid-template-columns:1fr}.ctrls{flex-direction:column;align-items:stretch}.drawer{width:100vw}.g4{grid-template-columns:1fr 1fr}}
